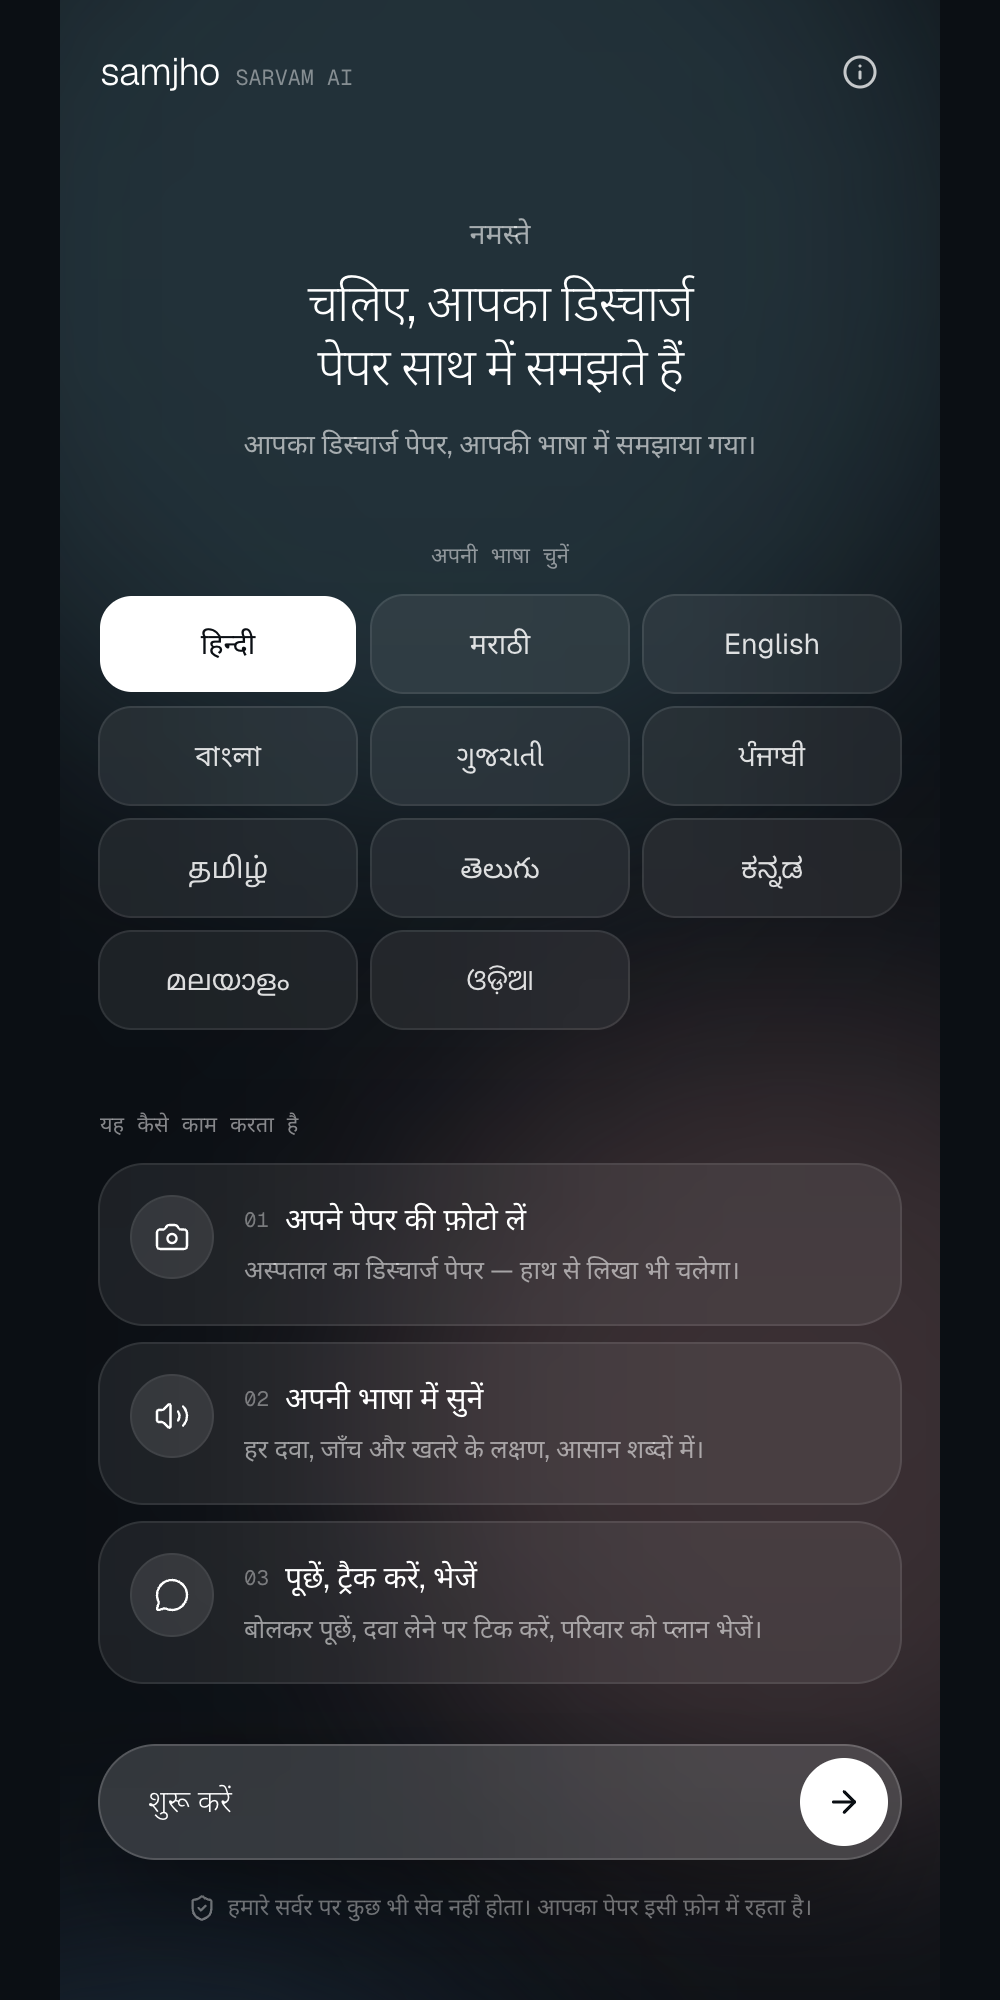
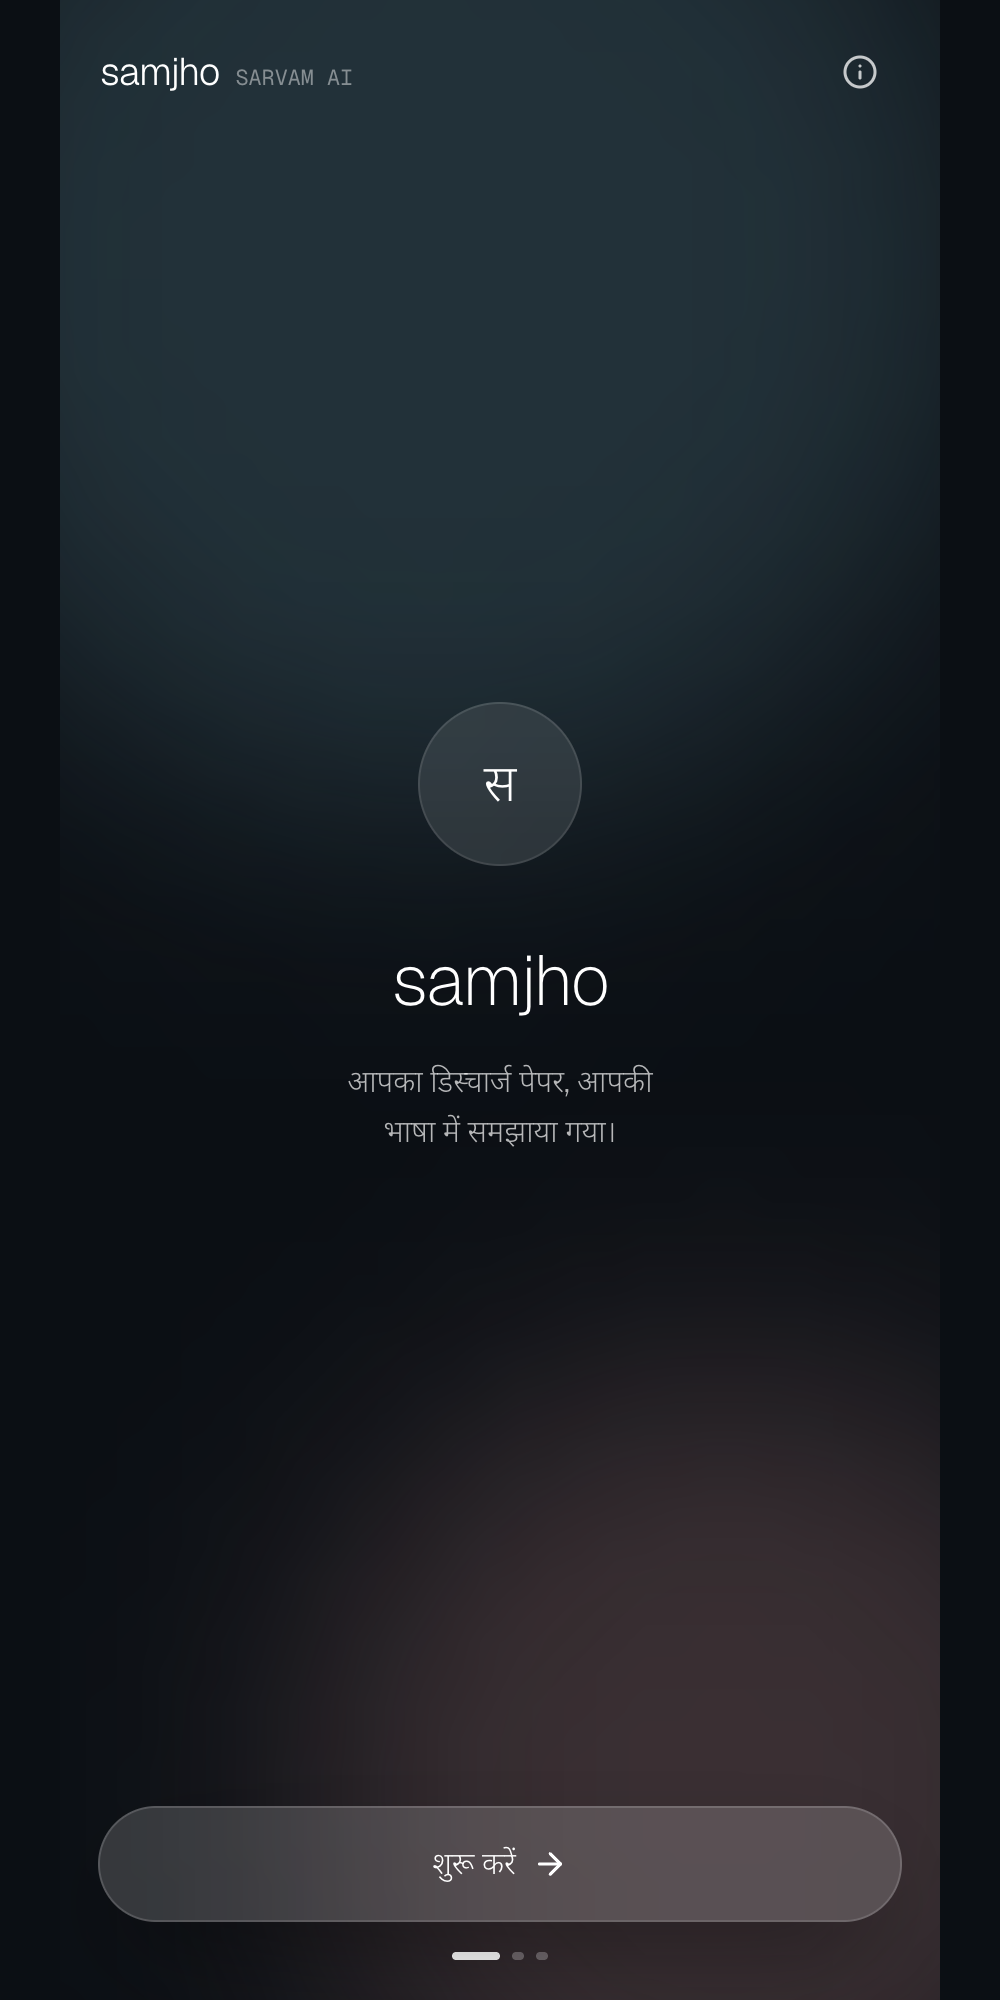
Split onboarding into welcome, language and guide screens

diff --git a/app/page.tsx b/app/page.tsx
@@ -1,136 +1,38 @@
 "use client";
 import Link from "next/link";
-import { useRouter } from "next/navigation";
 import { motion } from "framer-motion";
-import { ArrowRight, Camera, ExternalLink, FileText, Info, MessageCircle, ScanLine, ShieldCheck, Sparkles, Volume2 } from "lucide-react";
+import { ArrowRight, FileText } from "lucide-react";
 import { usePlan } from "@/components/PlanProvider";
-import { Label, Shell } from "@/components/ui";
-import { LANGS, langInfo } from "@/lib/langs";
-import { SAMPLE_PLANS } from "@/lib/sample";
+import { OnboardingFrame, glass, primaryBtn } from "@/components/Onboarding";
 import { unlockAudio } from "@/lib/audio";
 
-const glass = "bg-white/[0.07] ring-1 ring-white/15 backdrop-blur-xl";
-
 export default function Welcome() {
-  const { t, lang, setLang, base, setPlan, ready, setFiles } = usePlan();
-  const router = useRouter();
-
-  const instantDemo = () => {
-    unlockAudio();
-    setPlan(SAMPLE_PLANS["en-IN"]!, true);
-    router.push("/plan");
-  };
-  const scanSample = () => {
-    unlockAudio();
-    setFiles([]);
-    router.push("/scan?sample=1");
-  };
-
-  const steps = [
-    { icon: Camera, title: t.step1Title, body: t.step1Body },
-    { icon: Volume2, title: t.step2Title, body: t.step2Body },
-    { icon: MessageCircle, title: t.step3Title, body: t.step3Body },
-  ];
-
+  const { t, base, ready } = usePlan();
   return (
-    <Shell className="bg-night text-white">
-      <div className="pointer-events-none absolute inset-0 overflow-hidden" aria-hidden>
-        <div className="absolute -top-32 left-1/2 size-[560px] -translate-x-1/2 rounded-full bg-teal/45 blur-3xl drift" />
-        <div className="absolute top-[520px] -right-40 size-[420px] rounded-full bg-rose/25 blur-3xl drift [animation-delay:-5s]" />
-        <div className="absolute top-[980px] -left-40 size-[420px] rounded-full bg-slate blur-3xl" />
-      </div>
-
-      <div className="relative px-5 pt-[max(env(safe-area-inset-top),14px)] pb-10">
-        <header className="flex h-11 items-center justify-between">
-          <div className="flex items-baseline gap-2">
-            <span className="text-[1.2rem] font-light tracking-tight">samjho</span>
-            <Label className="text-white/45">Sarvam AI</Label>
-          </div>
-          <Link href="/how-it-works" className="grid size-10 place-items-center rounded-full text-white/75 hover:bg-white/10" aria-label={t.howItWorks}>
-            <Info className="size-[18px]" />
-          </Link>
-        </header>
-
-        {/* Hero */}
-        <motion.section initial={{ opacity: 0, y: 14 }} animate={{ opacity: 1, y: 0 }} transition={{ duration: 0.7 }} className="pt-12 text-center">
-          <p className="text-[0.9rem] text-white/60">{langInfo(lang).hello}</p>
-          <h1 className="mx-auto mt-2 max-w-[20ch] text-balance text-[1.6rem] font-light leading-tight tracking-tight">{t.welcomeTitle}</h1>
-          <p className="mx-auto mt-3 max-w-[30ch] text-[0.85rem] leading-relaxed text-white/60">{t.tagline}</p>
-        </motion.section>
-
-        {/* Language */}
-        <section className="mt-9">
-          <Label className="mb-3 text-center text-white/50">{t.chooseLanguage}</Label>
-          <div className="grid grid-cols-3 gap-2" role="radiogroup" aria-label={t.chooseLanguage}>
-            {LANGS.map((l) => {
-              const on = l.code === lang;
-              return (
-                <button key={l.code} role="radio" aria-checked={on} onClick={() => setLang(l.code)}
-                  className={`h-12 rounded-2xl text-[0.9rem] transition active:scale-95 ${on ? "bg-white text-ink" : `${glass} text-white/85 hover:bg-white/15`}`}>
-                  {l.native}
-                </button>
-              );
-            })}
-          </div>
-        </section>
-
-        {/* Steps */}
-        <section className="mt-10">
-          <Label className="mb-3 text-white/50">{t.stepsTitle}</Label>
-          <ol className="space-y-2.5">
-            {steps.map(({ icon: Icon, title, body }, i) => (
-              <motion.li key={i} initial={{ opacity: 0, y: 10 }} whileInView={{ opacity: 1, y: 0 }} viewport={{ once: true }} transition={{ delay: i * 0.08 }}
-                className={`flex items-start gap-4 rounded-[22px] p-4 ${glass}`}>
-                <span className="grid size-10 shrink-0 place-items-center rounded-full bg-white/10 ring-1 ring-white/15"><Icon className="size-[18px]" strokeWidth={1.6} /></span>
-                <div>
-                  <div className="flex items-center gap-2">
-                    <span className="font-mono text-[0.65rem] text-white/40">0{i + 1}</span>
-                    <span className="text-[0.95rem]">{title}</span>
-                  </div>
-                  <p className="mt-1 text-[0.8rem] leading-relaxed text-white/55">{body}</p>
-                </div>
-              </motion.li>
-            ))}
-          </ol>
-        </section>
-
-        {/* Primary CTA */}
-        <section className="mt-8 space-y-3">
+    <OnboardingFrame
+      step={1}
+      footer={
+        <>
           {ready && base && (
-            <Link href="/plan" className={`flex h-14 w-full items-center justify-center gap-2 rounded-full text-[0.9rem] text-white ${glass}`}>
-              <FileText className="size-[18px]" strokeWidth={1.6} /> {t.openMyPlan}
+            <Link href="/plan" className={`flex h-12 w-full items-center justify-center gap-2 rounded-full text-[0.85rem] text-white/85 ${glass}`}>
+              <FileText className="size-4" strokeWidth={1.6} /> {t.openMyPlan}
             </Link>
           )}
-          <Link href="/scan" onClick={unlockAudio}
-            className="flex h-14 w-full items-center justify-between rounded-full bg-white/[0.16] pl-6 pr-1.5 text-[0.95rem] font-light text-white ring-1 ring-white/30 backdrop-blur-xl shadow-[0_20px_50px_-15px_rgba(0,0,0,0.6)] transition hover:bg-white/[0.22] active:scale-[0.98]">
-            <span>{t.getStarted}</span>
-            <span className="grid size-11 place-items-center rounded-full bg-white text-ink"><ArrowRight className="size-[18px]" /></span>
+          <Link href="/language" onClick={unlockAudio} className={primaryBtn}>
+            {t.getStarted} <ArrowRight className="size-[18px]" />
           </Link>
-          <p className="flex items-center justify-center gap-1.5 pt-1 text-center text-[0.72rem] text-white/45">
-            <ShieldCheck className="size-3.5" aria-hidden /> {t.nothingStored}
-          </p>
-        </section>
-
-        {/* Testing */}
-        <section className={`mt-10 rounded-[26px] p-5 ${glass}`}>
-          <div className="flex items-center gap-2">
-            <Sparkles className="size-4 text-peach" aria-hidden />
-            <h2 className="text-[0.95rem]">{t.testingTitle}</h2>
-          </div>
-          <p className="mt-1.5 text-[0.8rem] leading-relaxed text-white/55">{t.testingBody}</p>
-          <div className="mt-4 grid gap-2">
-            <button onClick={scanSample} className="flex h-12 items-center justify-center gap-2 rounded-full bg-night/60 text-[0.85rem] text-white ring-1 ring-white/20">
-              <ScanLine className="size-4" /> {t.useSamplePhoto}
-            </button>
-            <div className="grid grid-cols-2 gap-2">
-              <a href="/sample-paper" target="_blank" rel="noreferrer" className="flex h-11 items-center justify-center gap-1.5 rounded-full text-[0.78rem] text-white/80 ring-1 ring-white/15">
-                <ExternalLink className="size-3.5" /> {t.viewSamplePaper}
-              </a>
-              <button onClick={instantDemo} className="h-11 rounded-full px-2 text-[0.78rem] text-white/80 ring-1 ring-white/15">{t.trySample}</button>
-            </div>
-          </div>
-        </section>
-      </div>
-    </Shell>
+        </>
+      }
+    >
+      <motion.div initial={{ opacity: 0, y: 16 }} animate={{ opacity: 1, y: 0 }} transition={{ duration: 0.8 }}
+        className="flex flex-1 flex-col items-center justify-center text-center">
+        <div className="grid size-20 place-items-center rounded-full bg-white/10 ring-1 ring-white/20 backdrop-blur-xl">
+          <span className="text-[1.6rem] font-extralight">स</span>
+        </div>
+        <h1 className="mt-8 text-[2.2rem] font-extralight tracking-tight">samjho</h1>
+        <p className="mx-auto mt-3 max-w-[26ch] text-balance text-[0.95rem] font-light leading-relaxed text-white/70">{t.tagline}</p>
+        
+      </motion.div>
+    </OnboardingFrame>
   );
 }

diff --git a/app/guide/page.tsx b/app/guide/page.tsx
@@ -1,0 +1,75 @@
+"use client";
+import Link from "next/link";
+import { useRouter } from "next/navigation";
+import { motion } from "framer-motion";
+import { Camera, ExternalLink, MessageCircle, ScanLine, ShieldCheck, Sparkles, Volume2 } from "lucide-react";
+import { usePlan } from "@/components/PlanProvider";
+import { OnboardingFrame, glass, primaryBtn } from "@/components/Onboarding";
+import { Label } from "@/components/ui";
+import { SAMPLE_PLANS } from "@/lib/sample";
+import { unlockAudio } from "@/lib/audio";
+
+export default function Guide() {
+  const { t, setPlan, setFiles } = usePlan();
+  const router = useRouter();
+  const steps = [
+    { icon: Camera, title: t.step1Title, body: t.step1Body },
+    { icon: Volume2, title: t.step2Title, body: t.step2Body },
+    { icon: MessageCircle, title: t.step3Title, body: t.step3Body },
+  ];
+  return (
+    <OnboardingFrame
+      step={3}
+      footer={
+        <>
+          <Link href="/scan" onClick={() => { unlockAudio(); setFiles([]); }} className={primaryBtn}>
+            <Camera className="size-[18px]" strokeWidth={1.6} /> {t.scanPaper}
+          </Link>
+          <p className="flex items-center justify-center gap-1.5 text-center text-[0.7rem] text-white/45">
+            <ShieldCheck className="size-3.5" aria-hidden /> {t.nothingStored}
+          </p>
+        </>
+      }
+    >
+      <div className="pt-8">
+        <h1 className="text-[1.5rem] font-light tracking-tight">{t.stepsTitle}</h1>
+        <ol className="mt-6 space-y-2.5">
+          {steps.map(({ icon: Icon, title, body }, i) => (
+            <motion.li key={i} initial={{ opacity: 0, y: 10 }} animate={{ opacity: 1, y: 0 }} transition={{ delay: 0.1 + i * 0.1 }}
+              className={`flex items-start gap-4 rounded-[22px] p-4 ${glass}`}>
+              <span className="grid size-10 shrink-0 place-items-center rounded-full bg-white/10 ring-1 ring-white/15"><Icon className="size-[18px]" strokeWidth={1.6} /></span>
+              <div>
+                <div className="flex items-center gap-2">
+                  <span className="font-mono text-[0.65rem] text-white/40">0{i + 1}</span>
+                  <span className="text-[0.95rem]">{title}</span>
+                </div>
+                <p className="mt-1 text-[0.8rem] leading-relaxed text-white/55">{body}</p>
+              </div>
+            </motion.li>
+          ))}
+        </ol>
+
+        <motion.section initial={{ opacity: 0 }} animate={{ opacity: 1 }} transition={{ delay: 0.5 }} className={`mt-6 rounded-[24px] p-4 ${glass}`}>
+          <div className="flex items-center gap-2">
+            <Sparkles className="size-4 text-peach" aria-hidden />
+            <Label className="text-white/60">{t.testingTitle}</Label>
+          </div>
+          <p className="mt-2 text-[0.8rem] leading-relaxed text-white/55">{t.testingBody}</p>
+          <div className="mt-3 grid gap-2">
+            <button onClick={() => { unlockAudio(); setFiles([]); router.push("/scan?sample=1"); }}
+              className="flex h-11 items-center justify-center gap-2 rounded-full bg-night/50 text-[0.82rem] text-white ring-1 ring-white/20">
+              <ScanLine className="size-4" /> {t.useSamplePhoto}
+            </button>
+            <div className="grid grid-cols-2 gap-2">
+              <a href="/sample-paper" target="_blank" rel="noreferrer" className="flex h-10 items-center justify-center gap-1.5 rounded-full text-[0.75rem] text-white/75 ring-1 ring-white/15">
+                <ExternalLink className="size-3.5" /> {t.viewSamplePaper}
+              </a>
+              <button onClick={() => { unlockAudio(); setPlan(SAMPLE_PLANS["en-IN"]!, true); router.push("/plan"); }}
+                className="h-10 rounded-full px-2 text-[0.75rem] text-white/75 ring-1 ring-white/15">{t.trySample}</button>
+            </div>
+          </div>
+        </motion.section>
+      </div>
+    </OnboardingFrame>
+  );
+}

diff --git a/components/Onboarding.tsx b/components/Onboarding.tsx
@@ -1,0 +1,42 @@
+"use client";
+import Link from "next/link";
+import { Info } from "lucide-react";
+import { usePlan } from "./PlanProvider";
+import { Label, Shell } from "./ui";
+
+export const glass = "bg-white/[0.07] ring-1 ring-white/15 backdrop-blur-xl";
+export const primaryBtn =
+  "flex h-14 w-full items-center justify-center gap-2 rounded-full bg-white/[0.16] text-[0.95rem] font-light text-white ring-1 ring-white/30 backdrop-blur-xl shadow-[0_20px_50px_-15px_rgba(0,0,0,0.6)] transition hover:bg-white/[0.22] active:scale-[0.98]";
+
+/** Dark gradient frame shared by the three onboarding screens, with step dots. */
+export function OnboardingFrame({ step, children, footer }: { step: 1 | 2 | 3; children: React.ReactNode; footer: React.ReactNode }) {
+  const { t } = usePlan();
+  return (
+    <Shell className="bg-night text-white">
+      <div className="pointer-events-none absolute inset-0 overflow-hidden" aria-hidden>
+        <div className="absolute -top-32 left-1/2 size-[560px] -translate-x-1/2 rounded-full bg-teal/45 blur-3xl drift" />
+        <div className="absolute bottom-[-120px] -right-32 size-[420px] rounded-full bg-rose/25 blur-3xl drift [animation-delay:-5s]" />
+      </div>
+      <div className="relative flex min-h-dvh flex-col px-5 pt-[max(env(safe-area-inset-top),14px)] pb-[max(env(safe-area-inset-bottom),20px)]">
+        <header className="flex h-11 items-center justify-between">
+          <Link href="/" className="flex items-baseline gap-2">
+            <span className="text-[1.2rem] font-light tracking-tight">samjho</span>
+            <Label className="text-white/45">Sarvam AI</Label>
+          </Link>
+          <Link href="/how-it-works" className="grid size-10 place-items-center rounded-full text-white/75 hover:bg-white/10" aria-label={t.howItWorks}>
+            <Info className="size-[18px]" />
+          </Link>
+        </header>
+        <div className="flex flex-1 flex-col">{children}</div>
+        <div className="mt-8 space-y-4">
+          {footer}
+          <div className="flex justify-center gap-1.5" aria-label={`${step} / 3`}>
+            {[1, 2, 3].map((i) => (
+              <span key={i} className={`h-1 rounded-full transition-all ${i === step ? "w-6 bg-white" : "w-1.5 bg-white/30"}`} />
+            ))}
+          </div>
+        </div>
+      </div>
+    </Shell>
+  );
+}

diff --git a/app/language/page.tsx b/app/language/page.tsx
@@ -1,0 +1,34 @@
+"use client";
+import Link from "next/link";
+import { motion } from "framer-motion";
+import { ArrowRight, Check } from "lucide-react";
+import { usePlan } from "@/components/PlanProvider";
+import { OnboardingFrame, glass, primaryBtn } from "@/components/Onboarding";
+import { LANGS, langInfo } from "@/lib/langs";
+
+export default function Language() {
+  const { t, lang, setLang } = usePlan();
+  return (
+    <OnboardingFrame step={2} footer={<Link href="/guide" className={primaryBtn}>{t.continue} <ArrowRight className="size-[18px]" /></Link>}>
+      <motion.div initial={{ opacity: 0, y: 12 }} animate={{ opacity: 1, y: 0 }} transition={{ duration: 0.6 }} className="pt-10">
+        <p className="text-[0.85rem] text-white/55">{langInfo(lang).hello}</p>
+        <h1 className="mt-1 text-[1.5rem] font-light tracking-tight">{t.chooseLanguage}</h1>
+        <div className="mt-7 grid grid-cols-2 gap-2.5" role="radiogroup" aria-label={t.chooseLanguage}>
+          {LANGS.map((l) => {
+            const on = l.code === lang;
+            return (
+              <button key={l.code} role="radio" aria-checked={on} onClick={() => setLang(l.code)}
+                className={`flex h-14 items-center justify-between rounded-2xl px-4 text-left transition active:scale-[0.97] ${on ? "bg-white text-ink" : `${glass} text-white/85 hover:bg-white/15`}`}>
+                <span>
+                  <span className="block text-[0.95rem]">{l.native}</span>
+                  <span className={`block text-[0.68rem] ${on ? "text-ink/50" : "text-white/40"}`}>{l.english}</span>
+                </span>
+                {on && <Check className="size-4" />}
+              </button>
+            );
+          })}
+        </div>
+      </motion.div>
+    </OnboardingFrame>
+  );
+}

diff --git a/lib/i18n.ts b/lib/i18n.ts
@@ -128,6 +128,7 @@ export const en = {
   tipTitle: "Your plan is ready",
   tipBody: "Tap Listen to hear any card. Tap the mic to ask a question. Tick doses as you take them.",
   gotIt: "Got it",
+  continue: "Continue",
 };
 
 export type UiKey = keyof typeof en;
@@ -262,6 +263,7 @@ export const hi: Dict = {
   tipTitle: "आपका प्लान तैयार है",
   tipBody: "किसी भी कार्ड को सुनने के लिए 'सुनें' दबाएँ। सवाल पूछने के लिए माइक दबाएँ। दवा लेने पर टिक करें।",
   gotIt: "ठीक है",
+  continue: "आगे बढ़ें",
 };
 
 export const mr: Dict = {
@@ -393,6 +395,7 @@ export const mr: Dict = {
   tipTitle: "तुमचा प्लॅन तयार आहे",
   tipBody: "कोणतेही कार्ड ऐकण्यासाठी 'ऐका' दाबा. प्रश्न विचारण्यासाठी माइक दाबा. औषध घेतल्यावर टिक करा.",
   gotIt: "ठीक आहे",
+  continue: "पुढे जा",
 };
 
 export const BUILTIN: Partial<Record<string, Dict>> = { "en-IN": en, "hi-IN": hi, "mr-IN": mr };

diff --git a/app/scan/page.tsx b/app/scan/page.tsx
@@ -59,7 +59,7 @@ export default function Scan() {
   return (
     <Shell className="bg-paper">
       <header className="flex items-center justify-between px-3 pt-[max(env(safe-area-inset-top),10px)]">
-        <button onClick={() => router.push("/")} className="grid size-11 place-items-center rounded-full hover:bg-ink/5" aria-label={t.back}><ArrowLeft className="size-5" /></button>
+        <button onClick={() => router.push("/guide")} className="grid size-11 place-items-center rounded-full hover:bg-ink/5" aria-label={t.back}><ArrowLeft className="size-5" /></button>
         <LanguagePill />
       </header>
       <div className="px-5 pb-40">

diff --git a/README.md b/README.md
@@ -12,13 +12,23 @@ Patients leave hospital with a dense discharge summary full of jargon and abbrev
 
 Photograph the paper. Samjho reads it, turns it into a simple recovery plan, **speaks it in the patient's language**, and answers questions by voice. Every answer is grounded in the patient's own paper.
 
-| Welcome | Your plan | Medicines | 7-day checklist |
-|---|---|---|---|
-| ![Welcome](docs/screenshots/welcome.png) | ![Plan](docs/screenshots/plan.png) | ![Medicines](docs/screenshots/medicines.png) | ![Checklist](docs/screenshots/checklist.png) |
+**Onboarding: welcome, language, how it works**
 
-| Ask by voice | How it works | Sample paper (for the live demo) |
+| Welcome | Choose language | How to use |
 |---|---|---|
-| ![Ask](docs/screenshots/ask.png) | ![How it works](docs/screenshots/how-it-works.png) | ![Sample paper](docs/screenshots/sample-paper.png) |
+| ![Welcome](docs/screenshots/welcome.png) | ![Language](docs/screenshots/language.png) | ![Guide](docs/screenshots/guide.png) |
+
+**The app**
+
+| Your plan | Medicines | 7-day checklist | Ask by voice |
+|---|---|---|---|
+| ![Plan](docs/screenshots/plan.png) | ![Medicines](docs/screenshots/medicines.png) | ![Checklist](docs/screenshots/checklist.png) | ![Ask](docs/screenshots/ask.png) |
+
+| Scan | How it works | Sample paper (for testing) |
+|---|---|---|
+| ![Scan](docs/screenshots/scan.png) | ![How it works](docs/screenshots/how-it-works.png) | ![Sample paper](public/sample-prescription.jpg) |
+
+**Testing without a real prescription:** on the "How to use" screen, tap **Scan the sample paper**. It loads a realistic sample discharge summary and runs the full live Sarvam pipeline.
 
 ## Sarvam pipeline
 
